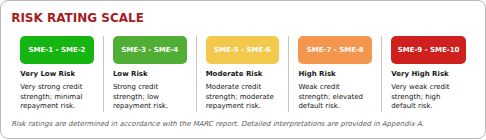
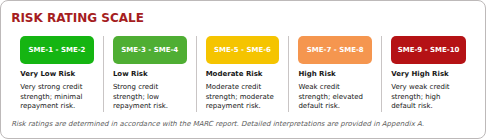
update prospectus color

Changed region(s): [[0.4012, 0.2571, 0.5864, 0.4571], [0.8025, 0.2571, 0.9568, 0.4571]]

diff --git a/apps/api/src/modules/notes/prospectus/prospectus-document-styles.ts b/apps/api/src/modules/notes/prospectus/prospectus-document-styles.ts
@@ -330,9 +330,9 @@ table{width:100%;border-collapse:collapse;font-size:8px}th{background:var(--pros
 }
 .grade.marc.a{background:#15B512}
 .grade.marc.b{background:#4FAE33}
-.grade.marc.c{background:#f2c94c}
+.grade.marc.c{background:#F5C400}
 .grade.marc.d{background:#f5964f}
-.grade.marc.e{background:#ce201d}
+.grade.marc.e{background:#B51215}
 .credit-insights-note{display:block;font-size:7px;margin-top:8px;font-style:italic;line-height:1.3;color:var(--prospectus-muted)}
 .ratings div{display:grid;grid-template-columns:1fr 110px;gap:8px;align-items:center;margin:5px 0;position:relative}.ratings div:before{content:"";width:17px;height:17px;background:#e3bfc0;border-radius:3px;position:absolute;left:0}.ratings span{font-weight:700;padding-left:22px}.ratings b{background:#d8d8d8;text-align:center;padding:5px;border-radius:4px;font-weight:500}.ratings .good{color:#21a43b}
 .work-list p{display:flex;align-items:flex-start;gap:10px;font-size:9px;margin-bottom:9px}.work-list .icon{flex:none;width:var(--prospectus-icon-work);height:var(--prospectus-icon-work);padding:4px;box-sizing:border-box}

diff --git a/apps/api/src/modules/notes/prospectus/prospectus-marc-risk-v3-layout.test.ts b/apps/api/src/modules/notes/prospectus/prospectus-marc-risk-v3-layout.test.ts
@@ -77,9 +77,9 @@ describe("prospectus MARC risk rating V3 visual contract", () => {
     expect(PROSPECTUS_DOCUMENT_CSS).toContain(".risk-scale{display:grid;grid-template-columns:repeat(5,1fr)");
     expect(PROSPECTUS_DOCUMENT_CSS).toContain(".grade.marc.a{background:#15B512}");
     expect(PROSPECTUS_DOCUMENT_CSS).toContain(".grade.marc.b{background:#4FAE33}");
-    expect(PROSPECTUS_DOCUMENT_CSS).toContain(".grade.marc.c{background:#f2c94c}");
+    expect(PROSPECTUS_DOCUMENT_CSS).toContain(".grade.marc.c{background:#F5C400}");
     expect(PROSPECTUS_DOCUMENT_CSS).toContain(".grade.marc.d{background:#f5964f}");
-    expect(PROSPECTUS_DOCUMENT_CSS).toContain(".grade.marc.e{background:#ce201d}");
+    expect(PROSPECTUS_DOCUMENT_CSS).toContain(".grade.marc.e{background:#B51215}");
     expect(PROSPECTUS_DOCUMENT_CSS).toMatch(/\.grade\.marc\{[\s\S]*min-width:61px/);
     expect(PROSPECTUS_DOCUMENT_CSS).toMatch(/\.grade\.marc\{[\s\S]*height:28px/);
     expect(PROSPECTUS_DOCUMENT_CSS).toMatch(/\.grade\.marc\{[\s\S]*padding:0 5px/);

diff --git a/packages/types/src/marc-credit-grade.ts b/packages/types/src/marc-credit-grade.ts
@@ -61,7 +61,7 @@ export const MARC_SME_BANDS = [
     // Kept yellow-leaning to preserve the overall visual style with white text.
     // Keep it stronger than original, but closer to a clean yellow (less muddy/gold).
     // SME Moderate Risk yellow (traffic-light style; clean yellow).
-    color: "#f2c94c",
+    color: "#F5C400",
   },
   {
     key: "d",
@@ -80,7 +80,7 @@ export const MARC_SME_BANDS = [
     label: "Very High Risk",
     groupedExplanation: "Very weak credit strength; high default risk.",
     // Stronger/darker red than the previous Very High Risk.
-    color: "#ce201d",
+    color: "#B51215",
   },
 ] as const;
 

diff --git a/t/styles.css b/t/styles.css
@@ -91,9 +91,9 @@ footer{margin-top:auto;display:flex;align-items:center;gap:8px;padding-top:14px;
 }
 .grade.marc.a{background:#15B512}
 .grade.marc.b{background:#4FAE33}
-.grade.marc.c{background:#f2c94c}
+.grade.marc.c{background:#F5C400}
 .grade.marc.d{background:#f5964f}
-.grade.marc.e{background:#ce201d}
+.grade.marc.e{background:#B51215}
 
 /* Date labels inside table headers. */
 table th small{
